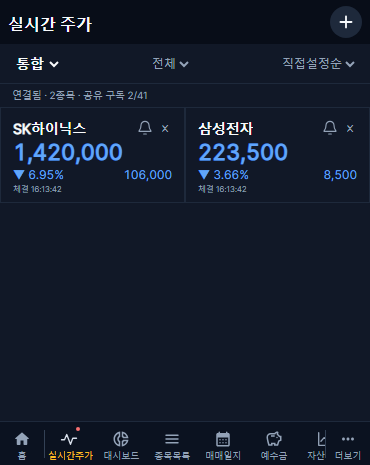
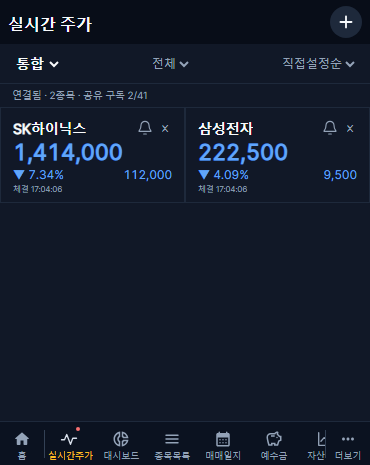
docs: finalize v1.2.49 production verification and recovery report

diff --git a/docs/shared-reports/2026-10-30-live-quotes.md b/docs/shared-reports/2026-10-30-live-quotes.md
@@ -75,9 +75,15 @@
 
 - 16:42~16:43 KST 두 사용자 SSE 실검증: A는 2종목, B는 그중 1종목만 수신했고 공유 구독은 2개였다. A 로그아웃 후 A 스트림만 세션 재검증으로 종료됐으며 B는 구독 1개로 실제 체결을 계속 수신했다. 사용자별 목록 분리·공유 구독·로그아웃 해제 확인, 임시 사용자/계좌/세션 정리 완료.
 
-### 정식 배포 확인 (진행 중)
+### 정식 배포 완료 · v1.2.49
 
-[PR #368](https://github.com/byungho-cho/roxstock/pull/368)은 28개 검사 성공·범위 제외 6개 후 2026-10-30 16:37:06 KST 병합했다. 병합 커밋은 42ee73911a3bdb06b6e5bae03e5ae917f938af89, 버전은 v1.2.49다. [배포 실행 41021183314](https://github.com/byungho-cho/roxstock/actions/runs/41021183314)이 기존 전체 화면 회귀 검사를 수행 중이다. 아래 운영 캡처는 개인 투자자료가 없는 임시 표시 목록으로 16:13 KST 검증했으며 정식 이미지 배포 후 다시 확인한다.
+[PR #368](https://github.com/byungho-cho/roxstock/pull/368)은 28개 검사 성공·범위 제외 6개 후 2026-10-30 16:37:06 KST 병합했다. 병합 커밋은 42ee73911a3bdb06b6e5bae03e5ae917f938af89, 버전은 v1.2.49다. [배포 실행 41021183314](https://github.com/byungho-cho/roxstock/actions/runs/41021183314) 성공. 정식 frontend 이미지 sha-42ee73911a3bdb06b6e5bae03e5ae917f938af89 적용 시각은 **2026-10-30 17:01:58 KST**다. 공개 /api/version은 1.2.49, 서비스 5개 모두 healthy다. backend/기존 수집기는 변경이 없어 fb638140 이미지와 기존 시작 시각을 유지했다. 임시 nginx 설정 교체 대신 검증된 정식 이미지로 고정됐다. 아래는 개인 투자자료 없는 임시 표시 목록으로 17:04 KST 확인한 실제 운영 캡처다.
 
 ![운영 커버 검증](assets/2026-10-30-live-production-cover.png)
 ![운영 태블릿 검증](assets/2026-10-30-live-production-tablet.png)
+
+- 17:03:51~17:04:10 KST 정식 v1.2.49 운영 브라우저 검사 통과. 오프라인에서 마지막 가격/카드를 유지하며 재연결 상태를 즉시 표시했고 온라인 복구 후 두 종목 모두 실제 체결 수신을 재개했다. 재연결 전후 원래 카드 DOM이 유지됐다. 4초 표본에서 숫자 변경 4회(간격 997/1000/1009ms)를 확인했다.
+- 같은 운영 검사에서 드롭 무저장·취소 복원·저장 한 번·새로고침 유지, SQL NULL 설정 최초 저장, 200/409 동시 저장, 다른 사용자/계좌 차단, Origin/CSRF 차단, 보유 필터/전체 복원·검색 중복 방지·커버/태블릿 2열 모두 통과했다. 임시 계정 2개와 계좌·세션을 정리했다.
+- 최종 재대조에서 증분 확인 시작점 **20261028**과 과거 대기열의 모든 상태별 건수가 배포 전과 같았다. 과거 수집/보완을 재개하지 않았다. 시험 종료 후 서버의 한투 웹소켓 연결 0개를 확인했으며 다른 연결을 강제 종료하지 않았다.
+- 별도 DB 스키마 변경·마이그레이션 없음. 사용자가 등록한 표시 목록/순서는 기존 사용자 설정의 하위 값으로 저장한다. 기존 개인 거래·예수금·재무/지표·수기 값·감사/오류 이력은 변경하지 않았다. Android APK도 유지했다.
+- 완료: 코드/정식 배포/실제 세 시장 수신/1초 화면 반영/재연결/사용자 분리/공유 구독/목록 저장/정렬·터치 및 기존 화면 회귀/도넛 그룹/백업 날짜 검증. 추가 관찰: 실제 전화기의 장시간 접속·OS 네트워크 전환·24시간 접속키 만료, 실제 41개 최대 동시 구독 부하. 후자는 모의 경계 검사와 두 종목 실검증을 구분하며 완료했다고 주장하지 않는다.
